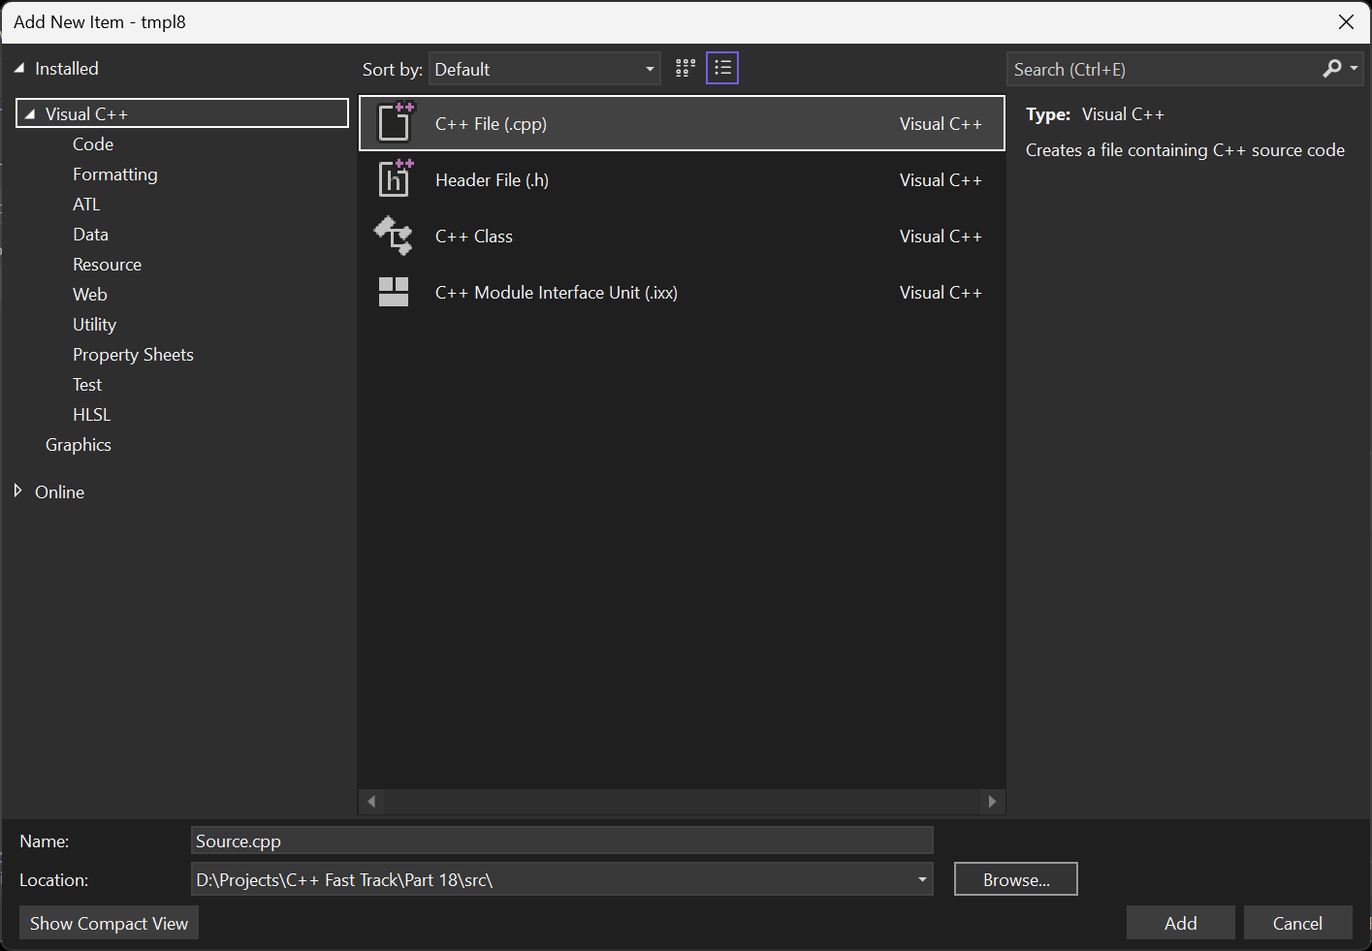
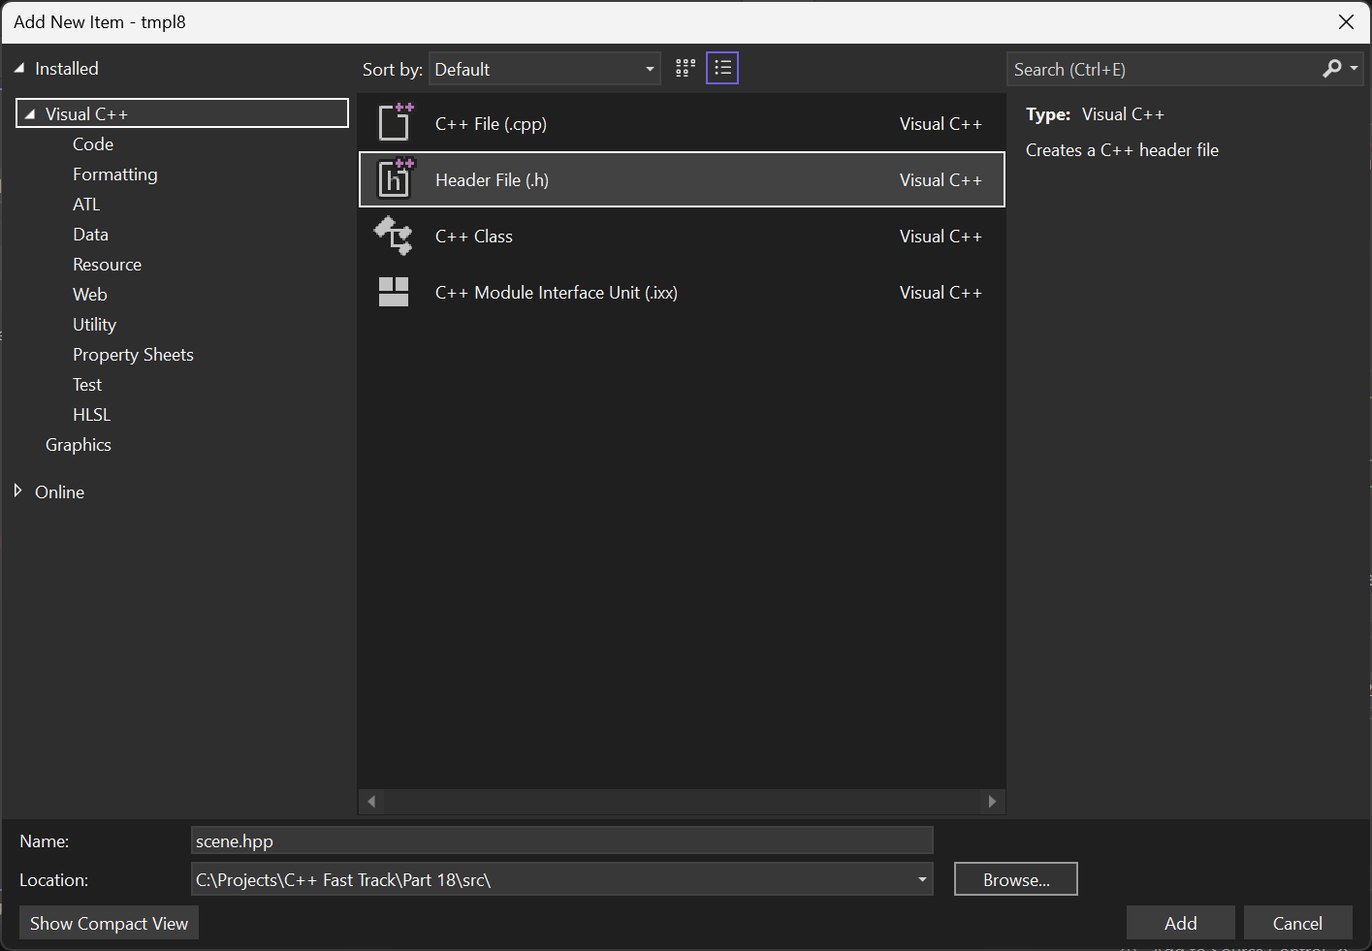
Fast Track part 18: review edits, new Add New Item screenshots, and Draw before the scene switch
New screenshots of both views of Add New Item, and the compact view's error with its fix (Add > Existing Item...).
Game::Tick draws the scene before it switches to the next one, so a new scene is ticked before it's drawn. The
game.cpp blocks of step 1 cover the whole file. Explanations of Print, Centre (with its formula) and std::make_unique,
and links about forward declarations, std::string_view and the game loop.

diff --git a/sources/tmpl8-part-18/10-settings/src/game.cpp b/sources/tmpl8-part-18/10-settings/src/game.cpp
@@ -36,10 +36,10 @@ namespace Tmpl8
         // in one frame (like after a break in the debugger).
         const float seconds = std::min(deltaTime / 1000, 1.0f / 30);
         scene->Tick(seconds);
-        // A scene can't replace itself while its Tick runs: that would delete it. So the switch happens here.
+        scene->Draw(screen);
+        // A scene can't replace itself during its Tick (that would delete it), so the switch happens after Draw.
         if (nextScene)
             scene = std::move(nextScene);
-        scene->Draw(screen);
     }
 
     void Game::Quit()

diff --git a/sources/tmpl8-part-18/9-menus/src/game.cpp b/sources/tmpl8-part-18/9-menus/src/game.cpp
@@ -31,10 +31,10 @@ namespace Tmpl8
         // in one frame (like after a break in the debugger).
         const float seconds = std::min(deltaTime / 1000, 1.0f / 30);
         scene->Tick(seconds);
-        // A scene can't replace itself while its Tick runs: that would delete it. So the switch happens here.
+        scene->Draw(screen);
+        // A scene can't replace itself during its Tick (that would delete it), so the switch happens after Draw.
         if (nextScene)
             scene = std::move(nextScene);
-        scene->Draw(screen);
     }
 
     void Game::Quit()

diff --git a/sources/tmpl8-part-18/1-scenes/src/game.cpp b/sources/tmpl8-part-18/1-scenes/src/game.cpp
@@ -30,9 +30,9 @@ namespace Tmpl8
         // in one frame (like after a break in the debugger).
         const float seconds = std::min(deltaTime / 1000, 1.0f / 30);
         scene->Tick(seconds);
-        // A scene can't replace itself while its Tick runs: that would delete it. So the switch happens here.
+        scene->Draw(screen);
+        // A scene can't replace itself during its Tick (that would delete it), so the switch happens after Draw.
         if (nextScene)
             scene = std::move(nextScene);
-        scene->Draw(screen);
     }
 }

diff --git a/sources/tmpl8-part-18/2-level/src/game.cpp b/sources/tmpl8-part-18/2-level/src/game.cpp
@@ -30,9 +30,9 @@ namespace Tmpl8
         // in one frame (like after a break in the debugger).
         const float seconds = std::min(deltaTime / 1000, 1.0f / 30);
         scene->Tick(seconds);
-        // A scene can't replace itself while its Tick runs: that would delete it. So the switch happens here.
+        scene->Draw(screen);
+        // A scene can't replace itself during its Tick (that would delete it), so the switch happens after Draw.
         if (nextScene)
             scene = std::move(nextScene);
-        scene->Draw(screen);
     }
 }

diff --git a/sources/tmpl8-part-18/3-camera/src/game.cpp b/sources/tmpl8-part-18/3-camera/src/game.cpp
@@ -30,9 +30,9 @@ namespace Tmpl8
         // in one frame (like after a break in the debugger).
         const float seconds = std::min(deltaTime / 1000, 1.0f / 30);
         scene->Tick(seconds);
-        // A scene can't replace itself while its Tick runs: that would delete it. So the switch happens here.
+        scene->Draw(screen);
+        // A scene can't replace itself during its Tick (that would delete it), so the switch happens after Draw.
         if (nextScene)
             scene = std::move(nextScene);
-        scene->Draw(screen);
     }
 }

diff --git a/sources/tmpl8-part-18/4-player/src/game.cpp b/sources/tmpl8-part-18/4-player/src/game.cpp
@@ -30,9 +30,9 @@ namespace Tmpl8
         // in one frame (like after a break in the debugger).
         const float seconds = std::min(deltaTime / 1000, 1.0f / 30);
         scene->Tick(seconds);
-        // A scene can't replace itself while its Tick runs: that would delete it. So the switch happens here.
+        scene->Draw(screen);
+        // A scene can't replace itself during its Tick (that would delete it), so the switch happens after Draw.
         if (nextScene)
             scene = std::move(nextScene);
-        scene->Draw(screen);
     }
 }

diff --git a/sources/tmpl8-part-18/5-jump/src/game.cpp b/sources/tmpl8-part-18/5-jump/src/game.cpp
@@ -30,9 +30,9 @@ namespace Tmpl8
         // in one frame (like after a break in the debugger).
         const float seconds = std::min(deltaTime / 1000, 1.0f / 30);
         scene->Tick(seconds);
-        // A scene can't replace itself while its Tick runs: that would delete it. So the switch happens here.
+        scene->Draw(screen);
+        // A scene can't replace itself during its Tick (that would delete it), so the switch happens after Draw.
         if (nextScene)
             scene = std::move(nextScene);
-        scene->Draw(screen);
     }
 }

diff --git a/sources/tmpl8-part-18/6-pickups/src/game.cpp b/sources/tmpl8-part-18/6-pickups/src/game.cpp
@@ -30,9 +30,9 @@ namespace Tmpl8
         // in one frame (like after a break in the debugger).
         const float seconds = std::min(deltaTime / 1000, 1.0f / 30);
         scene->Tick(seconds);
-        // A scene can't replace itself while its Tick runs: that would delete it. So the switch happens here.
+        scene->Draw(screen);
+        // A scene can't replace itself during its Tick (that would delete it), so the switch happens after Draw.
         if (nextScene)
             scene = std::move(nextScene);
-        scene->Draw(screen);
     }
 }

diff --git a/sources/tmpl8-part-18/7-enemies/src/game.cpp b/sources/tmpl8-part-18/7-enemies/src/game.cpp
@@ -30,9 +30,9 @@ namespace Tmpl8
         // in one frame (like after a break in the debugger).
         const float seconds = std::min(deltaTime / 1000, 1.0f / 30);
         scene->Tick(seconds);
-        // A scene can't replace itself while its Tick runs: that would delete it. So the switch happens here.
+        scene->Draw(screen);
+        // A scene can't replace itself during its Tick (that would delete it), so the switch happens after Draw.
         if (nextScene)
             scene = std::move(nextScene);
-        scene->Draw(screen);
     }
 }

diff --git a/sources/tmpl8-part-18/8-sound/src/game.cpp b/sources/tmpl8-part-18/8-sound/src/game.cpp
@@ -30,9 +30,9 @@ namespace Tmpl8
         // in one frame (like after a break in the debugger).
         const float seconds = std::min(deltaTime / 1000, 1.0f / 30);
         scene->Tick(seconds);
-        // A scene can't replace itself while its Tick runs: that would delete it. So the switch happens here.
+        scene->Draw(screen);
+        // A scene can't replace itself during its Tick (that would delete it), so the switch happens after Draw.
         if (nextScene)
             scene = std::move(nextScene);
-        scene->Draw(screen);
     }
 }

diff --git a/src/content/docs/cpp-fast-track-18-platformer.md b/src/content/docs/cpp-fast-track-18-platformer.md
@@ -119,7 +119,7 @@ If you change the **Location**, Visual Studio remembers it, so you only have to 
 :::note
 When adding a new item to a Visual Studio Project, you may either see the **Add New Item** dialog box:
 
-<img src="/images/cpp-fast-track-18/01-add-new-item.png" alt="The Add New Item dialog box of the tmpl8 project, with C++ File (.cpp) selected. Below the list are the Name field (Source.cpp), the Location field (D:\Projects\C++ Fast Track\Part 18\src\) with a Browse... button next to it, and the Show Compact View button." width="1415" height="981" class="screenshot" />
+<img src="/images/cpp-fast-track-18/01-add-new-item.png" alt="The Add New Item dialog box of the tmpl8 project, with Header File (.h) selected. Below the list are the Name field (scene.hpp), the Location field (C:\Projects\C++ Fast Track\Part 18\src\) with a Browse... button next to it, and the Show Compact View button." width="1415" height="981" class="screenshot" />
 
 <div class="caption">
 
@@ -129,7 +129,7 @@ The **Add New Item** dialog box, with the **Location** and the **Browse...** but
 
 or you might see the compact view, which has no **Location**:
 
-<img src="/images/cpp-fast-track-18/02-add-new-item-compact.png" alt="The compact Add new item dialog box, with tmpl8\ in front of the name field, which says src\scene.hpp. Below it are a Show all templates link and the Add and Cancel buttons." width="661" height="219" class="screenshot" />
+<img src="/images/cpp-fast-track-18/02-add-new-item-compact.png" alt="The compact Add new item dialog box, with Part 18\ in front of the name field, which says src\scene.hpp. Below it are a Show all templates link and the Add and Cancel buttons." width="661" height="221" class="screenshot" />
 
 <div class="caption">
 
@@ -138,6 +138,18 @@ The compact view of the **Add new item** dialog box, with `src\` in front of the
 </div>
 
 In both, typing `src\` in front of the name puts the file in the `src` folder. Press the **Show Compact View** button in the **Add New Item** dialog box to switch to the compact view, or press the **Show all templates** link in the compact view to switch back.
+
+The compact view may show this error when the name starts with a folder:
+
+<img src="/images/cpp-fast-track-18/03-add-new-item-error.png" alt="A Microsoft Visual Studio message box for Add new item that says: Failed to create file 'src\scene.hpp': The method or operation is not implemented." width="651" height="293" class="screenshot" />
+
+<div class="caption">
+
+The error of the compact view, after typing `src\scene.hpp` as the name.
+
+</div>
+
+Despite the message, Visual Studio did create the file in the `src` folder. It just didn't add it to the project. Right-click the `tmpl8` project in the **Solution Explorer**, select **Add** > **Existing Item...**, and select the new file in the `src` folder to add it.
 :::
 
 A file in the `src` folder can include another file in the `src` folder by its name, using double quotes like this: `#include "scene.hpp"`. With double quotes, the compiler first looks for the included file in the folder of the file that includes it. The template's headers, like `surface.hpp`, are in `src/Tmpl8`. The compiler finds them too, because the project has that folder in its **Additional Include Directories**.
@@ -146,9 +158,9 @@ The `CMakeLists.txt` file and the `build-web.bat` script, which builds your game
 
 ## Scenes
 
-A game is more than its gameplay. Alien Jump has a title screen, a main menu, a settings screen, the levels, and a screen that says GAME OVER. Each of them draws something different, and reacts to the keys in a different way. If all of that were in `Game::Tick`, it would be one huge function full of `if` statements that check which screen is showing.
+Our game will have multiple scenes. A title screen with a main menu, a settings screen, a level scene, and a game over screen. Each scene draws something different, and reacts to the keys in a different way. If everything was in `Game::Tick`, it would be one huge function full of `if` statements that check which screen is showing.
 
-Instead, each screen is a *scene*, an object of its own class, with its own `Tick` and `Draw`. The game shows one scene at a time, and a scene can tell the game to switch to another scene.
+Instead, each screen is a *scene*, an object of its own class, with its own `Tick` and `Draw` methods. The game shows one scene at a time, and a scene can tell the game to switch to another scene.
 
 ### The Scene Class
 
@@ -157,74 +169,94 @@ Add a new header file `scene.hpp`:
 ```cpp source="tmpl8-part-18/1-scenes/src/scene.hpp#L1-L15"
 ```
 
-`Scene` is a *base class*. It says which functions every scene has, but it doesn't do anything itself. The `virtual` in front of `Tick` and `Draw` means that a class that *derives* from `Scene` can give the function its own code, and that the game calls that code even when it only knows that the object is a `Scene`. The `= 0` makes them *pure virtual* functions. `Scene` has no code for them, so every scene must have its own. A class with a pure virtual function is *abstract*, which means that you can't make a `Scene` object, only objects of the classes that derive from it.
+The `Scene` is a *base class*. It says which functions every scene has, but it doesn't do anything itself. The `virtual` in front of `Tick` and `Draw` means that a class that *derives* from `Scene` can give the function its own code, and that the game calls that code for the correct method, even when it only knows that the object is a `Scene`. The `= 0` at the end, makes them *pure virtual* functions. The `Scene` is an *abstract class* and can't be instantiated directly. You need to create a concrete class that derives from `Scene` and implements the pure-virtual functions before you can create a `Scene` object.
 
 The *destructor* `~Scene` is virtual too. When the game deletes a scene, through a pointer to `Scene`, the virtual destructor makes sure that the destructor of the real class runs (and with it, the destructors of its members).
 
-`class Surface;` is a *forward declaration*. It tells the compiler that `Surface` is a class, without including `surface.hpp`. That's enough for a function that only takes a reference to a `Surface`.
+`class Surface;` on line 5 is a *forward declaration*. It tells the compiler that `Surface` is a class, without needing to include `surface.hpp`. That's enough for a function that only takes a reference or a pointer to a `Surface`, but if we want to actually use an object of type `Surface`, then we need to include `surface.hpp`. [Forward declarations and definitions](https://www.learncpp.com/cpp-tutorial/forward-declarations/) on Learn C++ explains the idea with functions, and the [forward declaration](https://en.cppreference.com/cpp/language/class#Forward_declaration) of a class is described on cppreference.com.
 
 ### Text
 
-The scenes show text, like PRESS ENTER TO PLAY. The template's `Surface::Print` uses a tiny font, which would be hard to read in a game with large pixels. The assets contain a pixel font that matches the art. `font.png` is a sprite with a frame for every character from the space to the `~`, in the order of their ASCII codes (16 characters on a row, and 6 rows).
+The scenes show text on the screen, like "PRESS ENTER TO PLAY". The template's `Surface::Print` method uses a tiny font, which is fine for debugging, but would be hard to read for someone playing our game. The assets contain a pixel font that matches the art used in our game. `font.png` is a sprite with a frame for every character from the space to the `~`, in the order of their ASCII codes (16 characters on a row, and 6 rows).
 
 Add a header file `text.hpp` for a class that prints with it:
 
 ```cpp source="tmpl8-part-18/1-scenes/src/text.hpp#L1-L23"
 ```
 
-`std::string_view` is a view of characters that are stored somewhere else, like a `std::string` or text between quotes. It can't change the text, but it doesn't make a copy of it either, so it's the type to use for a function that only reads text. Every character is equally wide (the font is *monospace*), so `Width` multiplies the number of characters by the distance from one character to the next.
+`Print` draws `text` on the `screen`, with the top-left corner of the first character at `x` and `y`. `Centre` draws it in the middle of the screen, so it only needs the `y` coordinate of the text in the screen. The `font` member variable is a sprite of `font.png`, with 16 columns and 6 rows of characters. Every character in `font.png` is equally wide (the font is *monospace*), so the `Width` method multiplies the number of characters by the distance from one character to the next. This works for single-line strings. You will need to modify this function if you ever want to use it with multi-line strings.
 
-`Advance` and `Height` are `static constexpr` members. `static` means that they belong to the class instead of to each object (`Text::Height` doesn't need a `Text`), and `constexpr` that their value is known while the program is compiled.
+Both the `Print` and `Center` functions take an [`std::string_view`](https://en.cppreference.com/cpp/string/basic_string_view) argument for the text to print on the screen. An `std::string_view` is a *view* of a string that just stores a pointer to the first character in the string and the length of the string. An `std::string_view` can be constructed from a string literal like `"Hello, World"` or from an `std::string`. Since it just stores a pointer to the text, it doesn't need to copy anything so it's very cheap to construct an `string_view`. A `string_view` is a *view* (it's view-only, or read-only). It can't be used to modify the original string, so you should prefer to pass strings to functions using an `std::string_view` (by value) instead of using `const char*` or `const std::string&`.
+
+`Advance` and `Height` are `static constexpr` members. `static` means that they belong to the class instead of to each object (`Text::Height` doesn't need a `Text`), and `constexpr` that their value is known at compile time.
 
 Add a source file `text.cpp`, with `Print`:
 
 ```cpp source="tmpl8-part-18/1-scenes/src/text.cpp#L1-L16"
 ```
 
-`Print` draws the characters one by one, from left to right. The frame of a character is its code minus the code of the space, because the first frame is the space. A space has nothing to draw, so it's skipped, but it still moves `x` on to the next character.
+`Print` draws characters one by one, from left to right. The frame of a character is its code minus the code of the space, because frame 0 is the space. A space (or any character not in `font.png`) has nothing to draw, so it's just skipped, but it still moves `x` forward to the next character.
 
-Below `Print`, add `Centre`:
+The `Centre` method centers the text on screen:
 
 ```cpp source="tmpl8-part-18/1-scenes/src/text.cpp#L18-L22"
 ```
 
-`Centre` prints the text in the middle of the screen, which is handy for titles and menus. The left edge of the text is half of the space that's left over next to it.
+`Centre` uses the `Print` method to print the text in the middle of the screen, which is handy for titles and menus. The middle of the screen is at half the screen width ($s_w/2$). The x-coordinate is shifted to the left by half of the width of the text ($w/2$) using the following formula:
+
+$$
+x = \frac{s_w}{2} - \frac{w}{2}
+$$
+
+which is equivalent to:
+
+$$
+x = \frac{s_w - w}{2}
+$$
 
 ### The Game Switches Scenes
 
-The game owns the scene on the screen, and a scene can ask it to switch to another scene. Open `game.hpp`, and include the new headers at the top:
+The game owns the scene that is currently being shown on the screen, and a scene can ask for it to switch to another scene. Open `game.hpp`, and include the new headers at the top:
 
 ```cpp source="tmpl8-part-18/1-scenes/src/game.hpp#L1-L10" {5-6,10}
 ```
 
-`scene.hpp` and `text.hpp` are the headers that you just wrote. They're in the same folder as `game.hpp`, so their names are enough. `<memory>` is the header of `std::unique_ptr`, which you'll use in a moment.
+`scene.hpp` and `text.hpp` are the headers that you just wrote. They're in the same folder as `game.hpp`, so their names are enough. `<memory>` is a header in the Standard Template Library (STL). It includes `std::unique_ptr` which we'll use to store a pointer to the current scene, and the next scene.
 
 At the bottom of the class, remove the example of the template, the `rotatingGun` sprite and `frame`. Then add these members:
 
 ```cpp source="tmpl8-part-18/1-scenes/src/game.hpp#L45-L54" {1-3,8-10}
 ```
 
-A scene is an object of a class that derives from `Scene`, so the game can't store it as a `Scene` (that's an abstract class). It stores a *pointer* to it instead. A `std::unique_ptr` is a pointer that *owns* the object it points to. When the `unique_ptr` is destroyed, or gets another object, it deletes its object. You never have to call `delete` yourself, and the object can never be forgotten.
+A scene is an object of a class that is derived from `Scene`. The game doesn't need to know about the different scenes it needs to show. Instead, we only need to give the `Game` class a pointer to a `Scene` and the concrete scene classes will implement the `Tick` and `Draw` functions to update and render the scene. An `std::unique_ptr` is a pointer that takes unique *ownershop* of the object it points to. When the `unique_ptr` is destroyed, or another object is assigned to it, it deletes the object it points to. You never have to call `delete` yourself, and the object can never be forgotten nor can the memory "leak".
 
-There are two pointers, one for the scene on the screen and one for the next scene. A scene calls `ChangeScene` while its own `Tick` runs. If `ChangeScene` replaced the scene right away, the `unique_ptr` would delete the scene whose `Tick` is still running, and the program would crash. So `ChangeScene` only remembers the next scene, and the game switches after the `Tick`. `std::move` moves the pointer into `nextScene`, because a `unique_ptr` can't be copied. Only one pointer can own an object.
+The Game stores two pointers: one for the current scene on the screen and one for the next scene. A scene calls `ChangeScene` while its own `Tick` runs. If `ChangeScene` replaced the scene right away, the `unique_ptr` would delete the scene whose `Tick` is still running, and the program would crash. So `ChangeScene` only remembers the next scene, and the game switches after the `Tick`. Since an `std::unique_ptr` can't be copied (if it could, it wouldn't be very unique now would it?), we'll use the `std::move` utility function to *move* the pointer into `nextScene`.
 
-The game also owns the `Text`, so that all the scenes can use the same font. `GetText` gives a scene a reference to it.
+The game also owns a `Text` object, so that all the scenes can use the same `font.png` file. The `GetText` method can be used by the scene to get a reference to the game's `Text` object.
 
-Now open `game.cpp`. Remove all the code in `Tick`, and the `#include <iostream>` at the top. Include the header of the title screen (which you will write in a moment), and `<algorithm>` for `std::min`. `Init` starts the game with the title screen:
+Now open `game.cpp` and replace it with this:
 
-```cpp source="tmpl8-part-18/1-scenes/src/game.cpp#L1-L15" {3,5,14}
+```cpp source="tmpl8-part-18/1-scenes/src/game.cpp#L1-L22" {3,5,14}
 ```
 
-`std::make_unique<MenuScene>(*this)` makes a `MenuScene` object, and gives it to a `unique_ptr`. The scene needs the game (for the keys, the text and to switch scenes), so it gets a reference to the game. `*this` is the `Game` object whose `Init` runs.
+:::caution
+We haven't made the `MenuScene` class yet, so this won't compile yet. We'll make the first scene class in the next section.
+:::
 
-`Tick` passes the frame on to the scene:
+The `std::make_unique<MenuScene>(*this)` function makes a `MenuScene` object, and assigns it to the `scene` variable. The menu scene needs a reference to the game (for the keys, and text and to switch scenes using the game's `ChangeScene` method). `this` is a special pointer to the instance of the class that the function is invoked on (in this case, a pointer the the `Game` instance), so `*this` dereferences the pointer to the game and passes it as a reference to the `MenuScenes` constructor.
 
-```cpp source="tmpl8-part-18/1-scenes/src/game.cpp#L27-L37" {3-10}
+:::note
+You could also write `scene = std::unique_ptr<MenuScene>(new MenuScene(*this));`, which does the same thing as [`std::make_unique`](https://en.cppreference.com/cpp/memory/unique_ptr/make_unique). `std::make_unique` is shorter, and it keeps `new` out of your code. Every `new` needs a matching `delete`. A `unique_ptr` deletes the object for you so you don't need to use `delete` to delete the object that a `unique_ptr` points to, and with `std::make_unique`, the object is in a `unique_ptr` from the moment it exists. So there's never a moment where you could forget to delete it. The rule of thumb in modern C++ is to avoid using `new` or `delete` directly, and to use `std::make_unique` (or `std::make_shared` for a `std::shared_ptr`) instead.
+:::
+
+The game's `Tick` function just `Tick`s and `Draw`s the scene:
+
+```cpp source="tmpl8-part-18/1-scenes/src/game.cpp#L24-L38" {6-13}
 ```
 
-The template gives `Tick` the time since the previous frame in milliseconds. The scenes work in seconds, which makes speeds like "120 pixels per second" easy to read. But when a frame takes very long (for example, when you were in the debugger, or the window was dragged around), everything would jump a long way in one frame, and the player could fall right through the floor. `std::min` makes sure that a frame counts as 1/30 of a second at most. The game slows down a bit when frames are that slow, but nothing goes wrong.
+The template gives `Game::Tick` the time since the previous frame in milliseconds. The scenes work in seconds, which makes speeds like "120 pixels per second" easy to read and reason about. But when a frame takes very long time (for example, when you're debugging, or the window was dragged around), everything would jump a long way in one frame, and the player could fall right out of the world. `std::min` makes sure that a frame never has a time delta of more than 1/30 of a second. It's better to let the game run slower than to let the physics explode with a huge delta time value! The [Game Loop](https://gameprogrammingpatterns.com/game-loop.html) chapter of *Game Programming Patterns* by Robert Nystrom explains the different ways a game can deal with the time between frames.
 
-After the `Tick`, the next scene takes over, if there is one. `scene = std::move(nextScene)` deletes the old scene, and leaves `nextScene` empty (a `nullptr`) again.
+After the scene is `Tick`ed, it gets `Draw`n. If the current scene requested a scene change, the next scene takes over. `scene = std::move(nextScene)` deletes the current scene, and leaves `nextScene` empty (a `nullptr`) again.
 
 ### The Title Screen and the Play Scene
 
